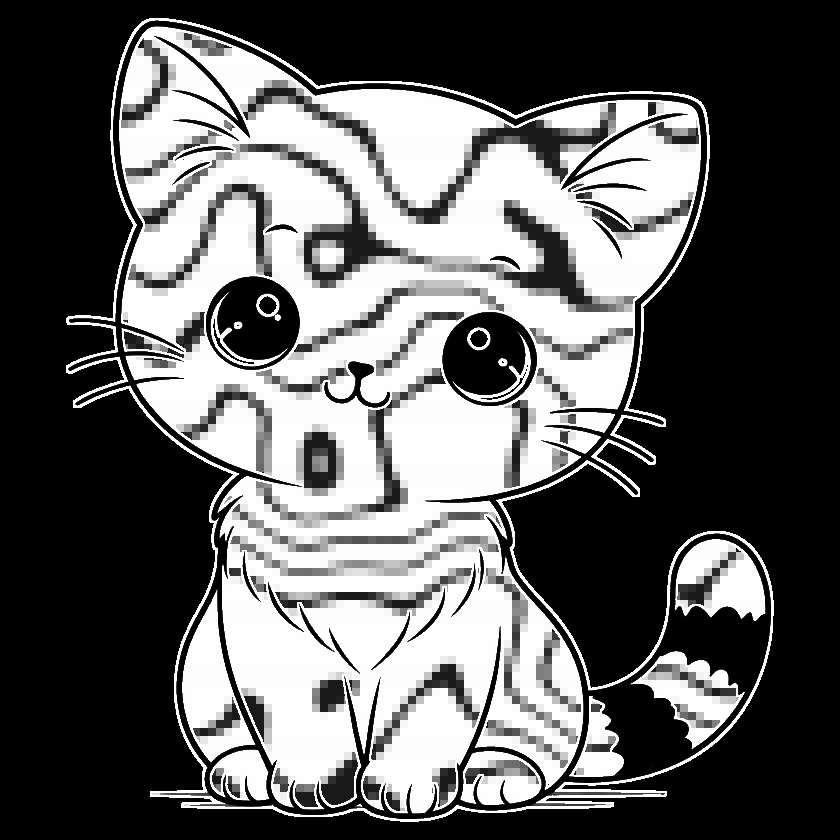
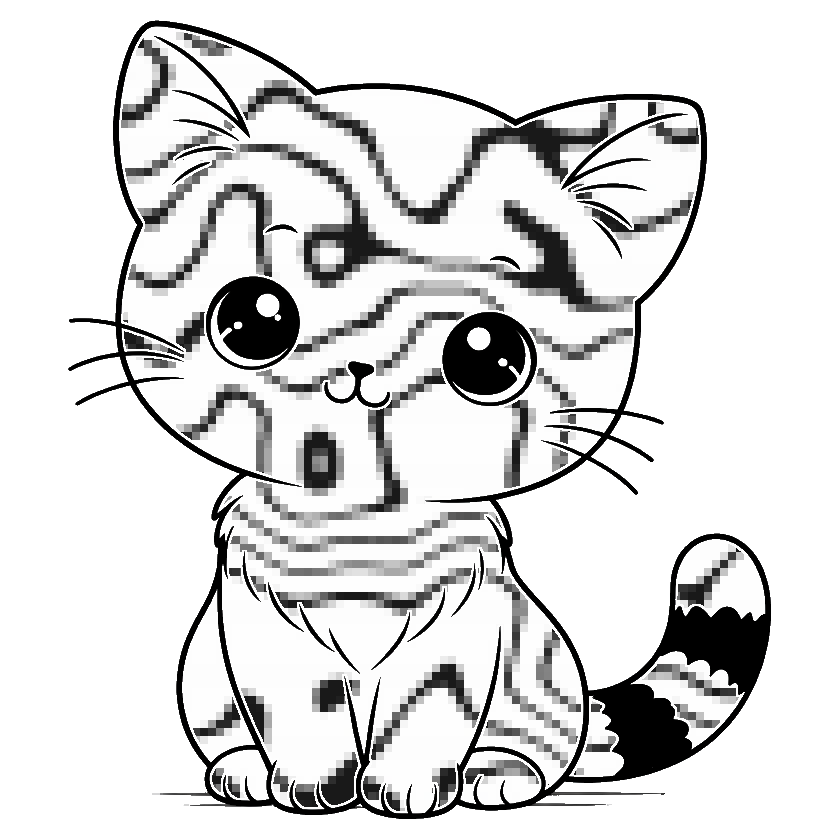
Use transparent background, remove white outer border
https://claude.ai/code/session_01Y1zeYokrXQCEx2qjFvhX8B

diff --git a/excat.py b/excat.py
@@ -613,39 +613,12 @@ def generate_excat(
         print(f"Pixelizing with block size {pixel_size}...")
         result = pixelize_interior(result, bg_mask, detail_buf, pixel_size)
 
-    # Black background with white outer border
+    # Transparent background
     pixels = result.load()
-    outline_width = 2
-
-    # Build the outer border: find bg pixels adjacent to non-bg pixels
-    border_pixels = set()
-    for y in range(side):
-        for x in range(side):
-            if not bg_mask[y][x]:
-                continue
-            # Check if this bg pixel is near a non-bg pixel
-            for r in range(1, outline_width + 1):
-                found = False
-                for dy in range(-r, r + 1):
-                    for dx in range(-r, r + 1):
-                        nx, ny = x + dx, y + dy
-                        if 0 <= nx < side and 0 <= ny < side and not bg_mask[ny][nx]:
-                            border_pixels.add((x, y))
-                            found = True
-                            break
-                    if found:
-                        break
-                if found:
-                    break
-
-    # Set background to black and border to white
     for y in range(side):
         for x in range(side):
             if bg_mask[y][x]:
-                if (x, y) in border_pixels:
-                    pixels[x, y] = (255, 255, 255, 255)
-                else:
-                    pixels[x, y] = (0, 0, 0, 255)
+                pixels[x, y] = (0, 0, 0, 0)
 
     result.save(output_path)
     print(f"\nSaved to {output_path} ({side}x{side}px)")

diff --git a/README.md b/README.md
@@ -16,7 +16,7 @@ The color gradient is asymmetric, reflecting the fact that quality loss is more 
 | 4 | White | Neutral setpoint |
 | 8 | Black | High fidelity |
 
-The gradient from 2-4 bpw (red to white) is steeper than 4-8 bpw (white to black), making aggressive low-bit quantization visually louder. The cat is displayed on a black background with a thin white border around its outer edge.
+The gradient from 2-4 bpw (red to white) is steeper than 4-8 bpw (white to black), making aggressive low-bit quantization visually louder. The background is transparent.
 
 ## Fur Patterns
 
